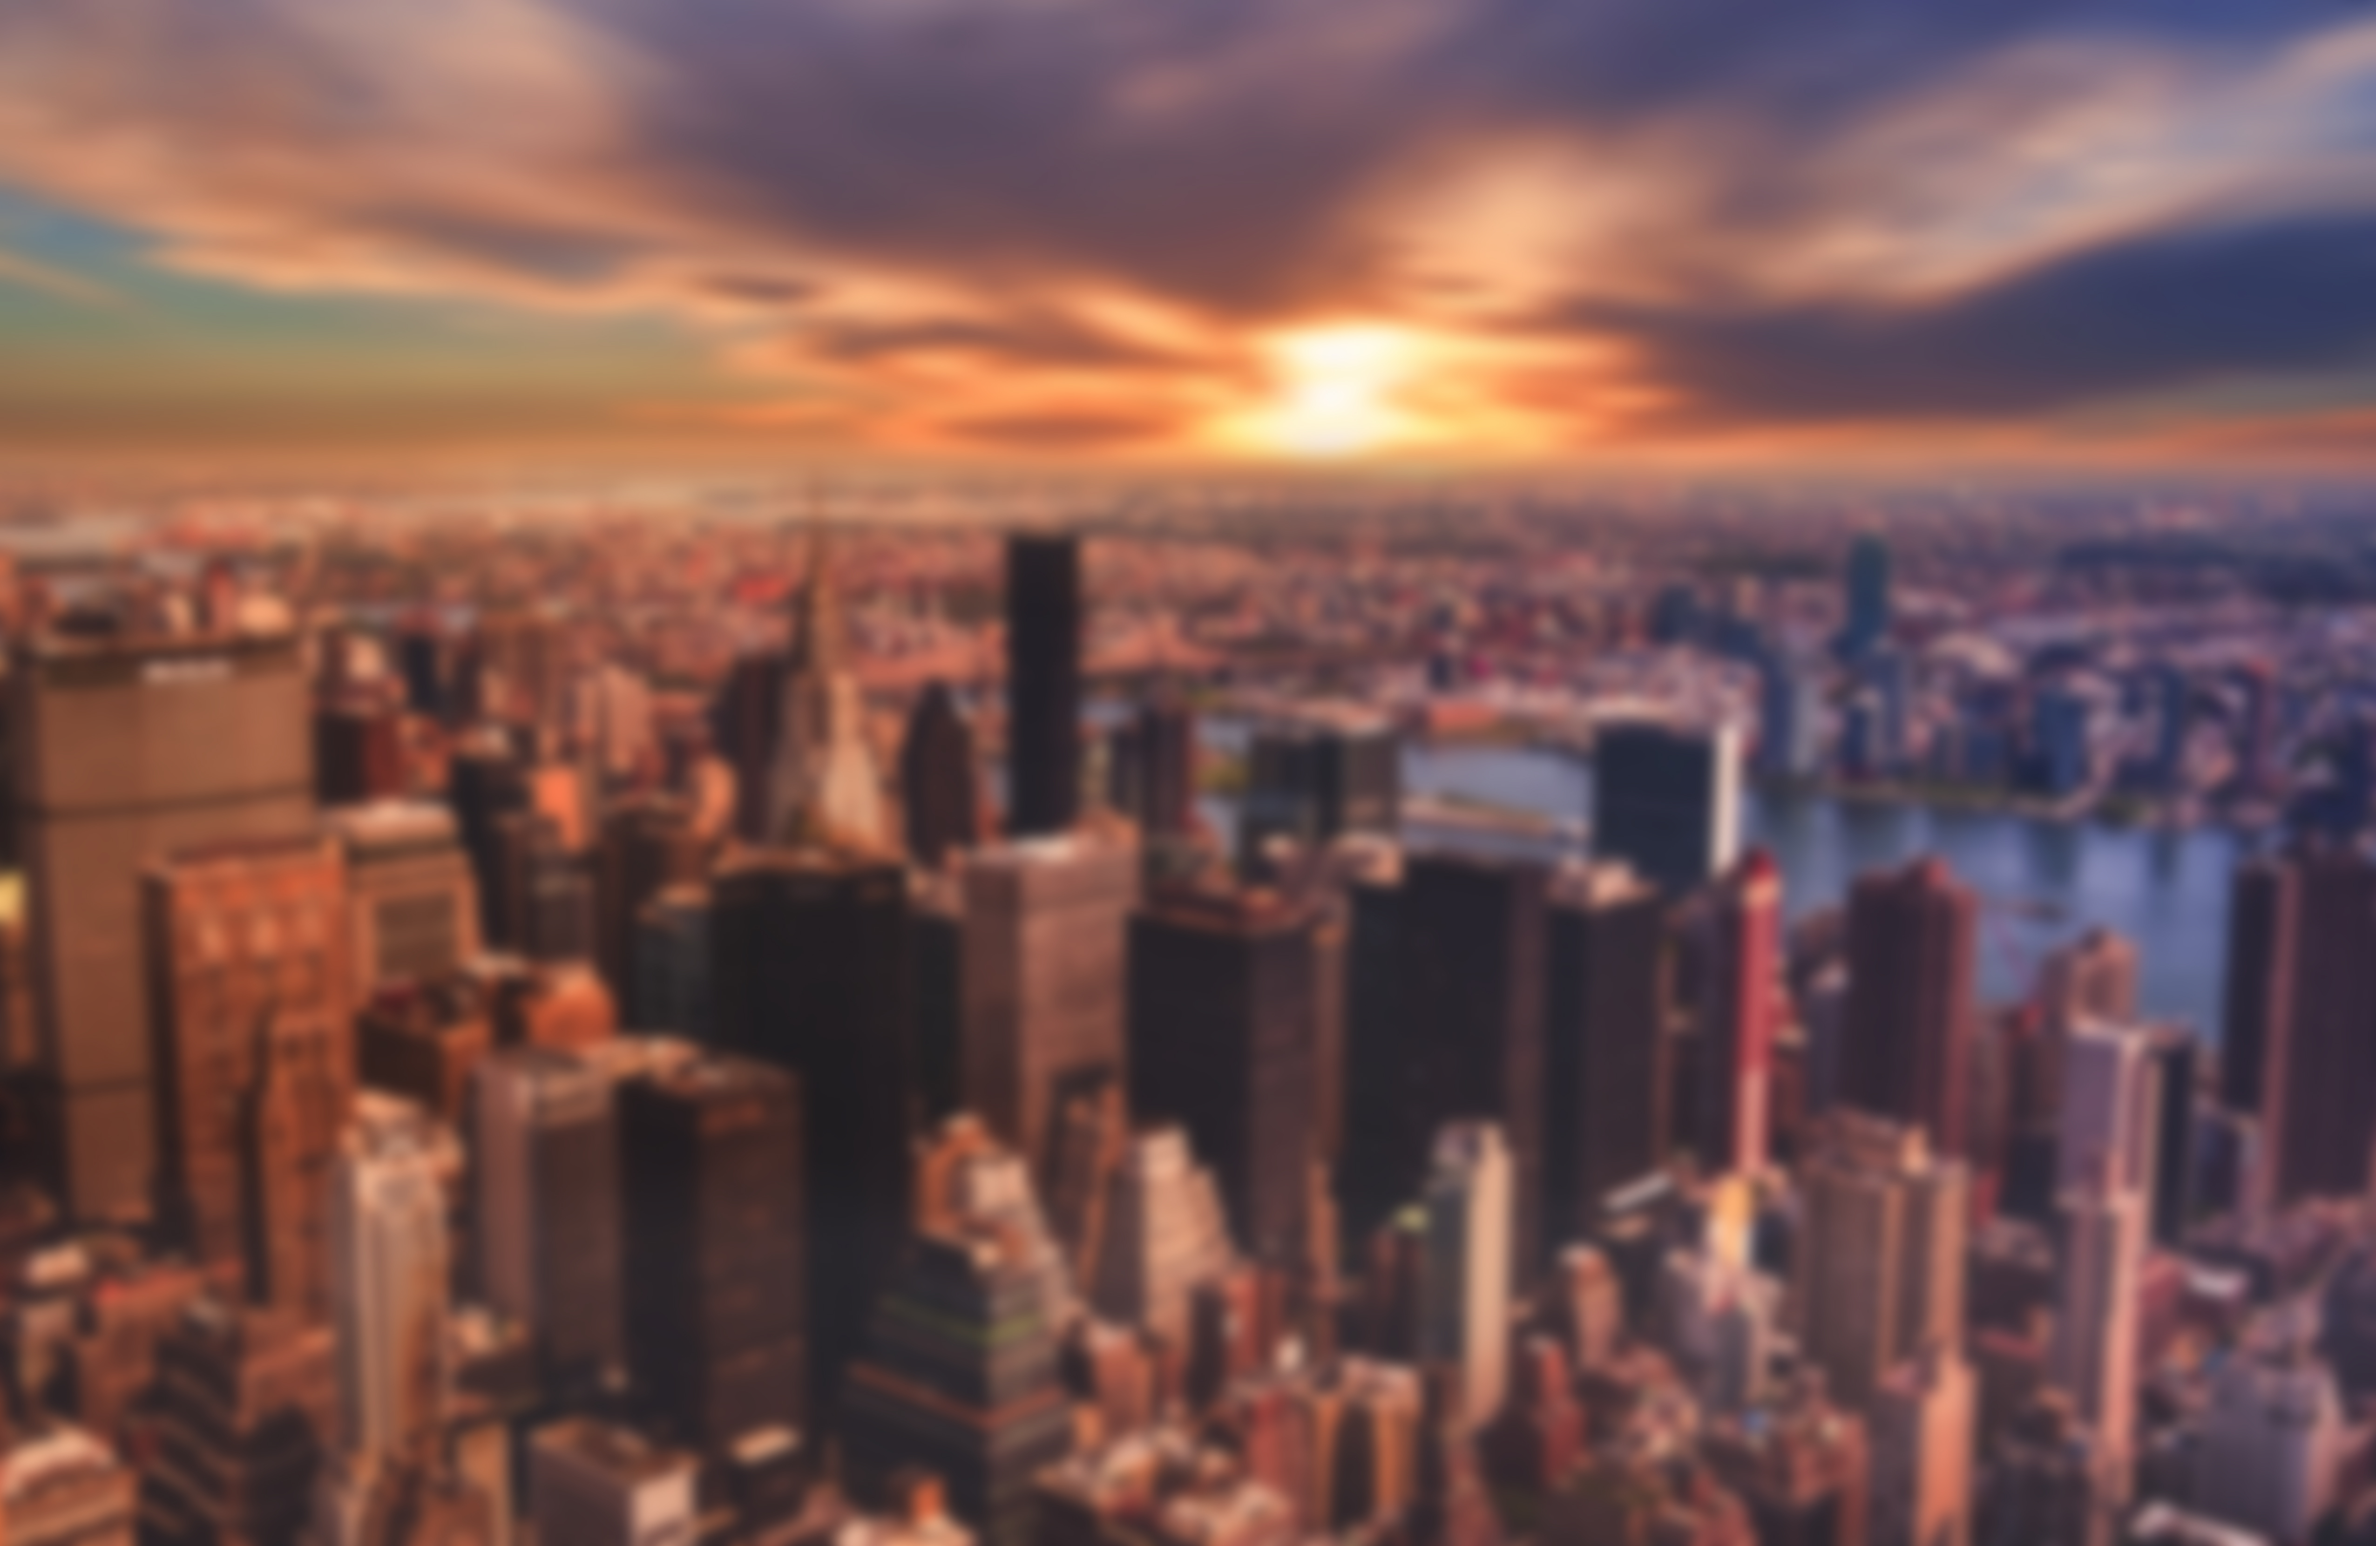
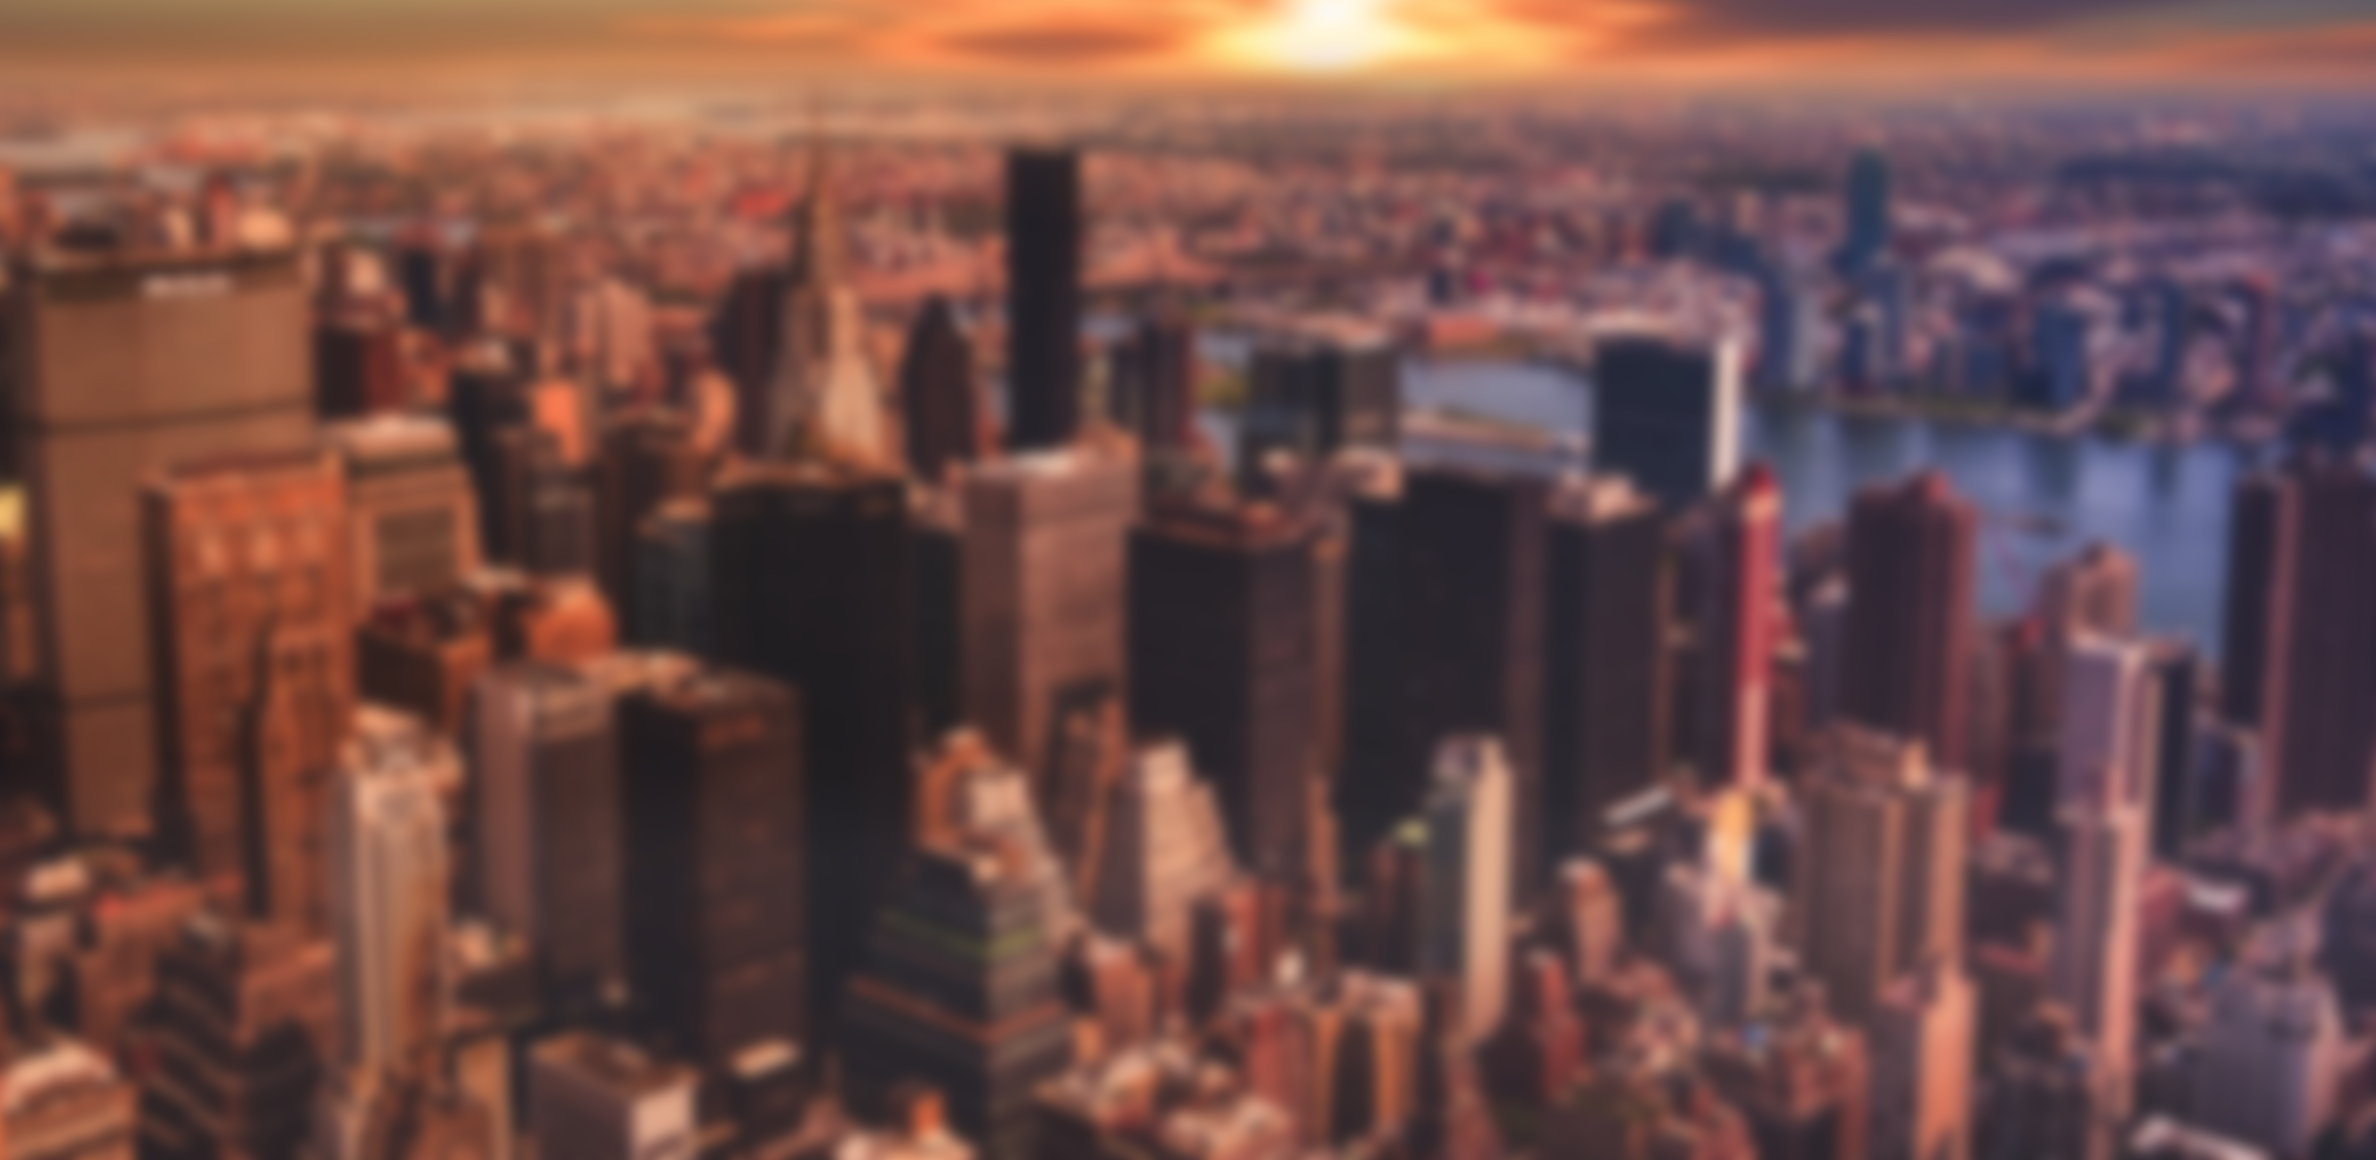
changeofbackground

diff --git a/css/styles.css b/css/styles.css
@@ -1,6 +1,6 @@
 
 body{
-  background-image:url(/~khalidgobin/tablequickedit/bgimage1.jpg);
+  background-image:url(/~khalidgobin/tablequickedit/blurredbgimage.jpg);
 }
 
 .page-header{
@@ -10,6 +10,7 @@ body{
 
 .container{
   width:100%;
+  opacity:0.9;
 }
 .blockquote{
   font-size: 20px;
@@ -17,6 +18,7 @@ body{
 
 .well{
   height:80px;
+  opacity:0.8;
 }
 th{
   font-size: 25px;
@@ -25,4 +27,8 @@ th{
 td{
   font-size: 20px;
   text-align: center;
+}
+
+#myModal{
+  opacity:0.95;
 }
